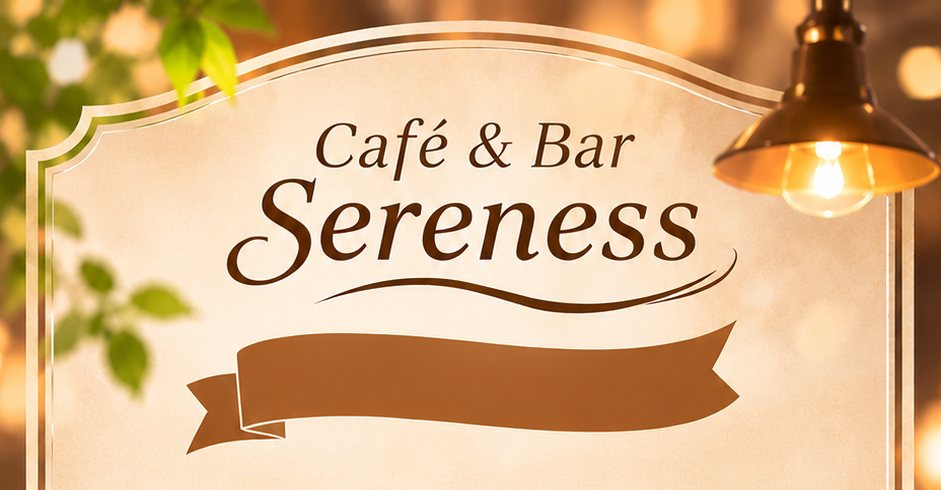
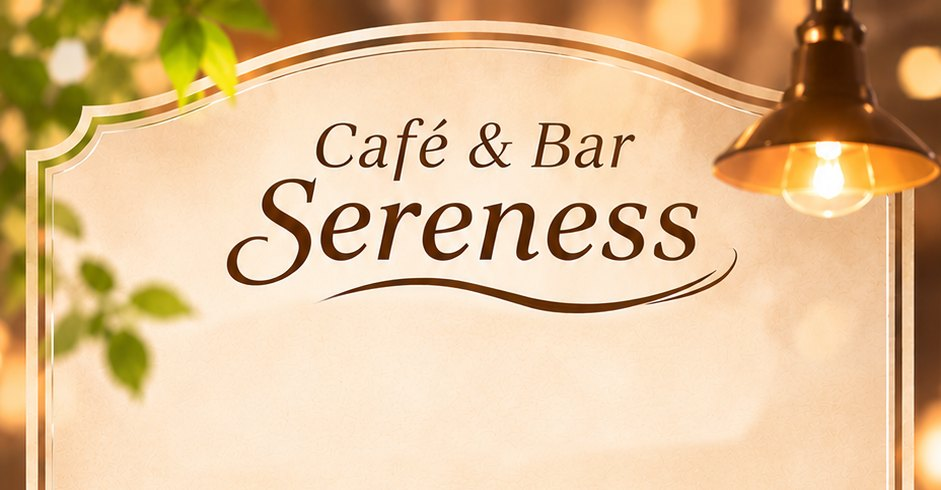
メニューのリボンを、両端が折り返した幅広の帯に変える
カード上部の元のリボンを紙の地で消し、内側にクリーム色の線がある濃い茶色の帯（img/ribbon.svg）に、
ページ名を大きめの欧文書体で載せた。

Claude-Session: https://claude.ai/code/session_016pjtUPDZjoXGVPoMVbckuW

Changed region(s): [[0.1849, 0.6429, 0.8013, 0.9184]]

diff --git a/menu-board.css b/menu-board.css
@@ -18,15 +18,18 @@ body { background: radial-gradient(circle at 50% 0%, #6b4a32 0%, #2e2119 60%, #1
 }
 .menu-inner-border { border: none; padding: 0; position: static; }
 
-/* ページ名はリボンの上に */
+/* ページ名はリボン（img/ribbon.svg：両端が折り返した幅広の帯）の上に */
 .header {
-    position: absolute; left: 22%; right: 22%; top: calc(var(--bw) * 0.392);
-    transform: translateY(-50%); border: none; margin: 0; padding: 0; text-align: center;
+    position: absolute; left: 3%; right: 3%; top: calc(var(--bw) * 0.315);
+    height: calc(var(--bw) * 0.2068); border: none; margin: 0; padding: 0; text-align: center;
+    background: url(img/ribbon.svg) center / 100% 100% no-repeat;
 }
 .logo-text { position: absolute; width: 1px; height: 1px; overflow: hidden; clip: rect(0 0 0 0); white-space: nowrap; }
 .mode-title {
-    margin: 0; color: #fff7ea; font-size: calc(var(--bw) * 0.033); letter-spacing: 0.06em;
-    font-weight: 600; text-shadow: 0 1px 2px rgba(60, 30, 10, 0.45); white-space: nowrap; overflow: hidden; text-overflow: ellipsis;
+    position: absolute; left: 13%; right: 13%; top: 43%; transform: translateY(-50%);
+    margin: 0; color: #fbefdc; font-family: 'Playfair Display', "Noto Serif JP", serif;
+    font-size: calc(var(--bw) * 0.05); font-weight: 500; letter-spacing: 0.05em; line-height: 1.2;
+    text-shadow: 0 1px 2px rgba(40, 18, 6, 0.55); white-space: nowrap; overflow: hidden; text-overflow: ellipsis;
 }
 
 /* 中身は1列（ドリンクのページの2列も1列にする） */
@@ -75,9 +78,9 @@ body { background: radial-gradient(circle at 50% 0%, #6b4a32 0%, #2e2119 60%, #1
     body { background: #fff; padding: 0; }
     .menu-paper { width: auto; padding: 0; background: none; box-shadow: none; border-radius: 0; }
     .menu-inner-border { border: 3px double #333; padding: 25px; }
-    .header { position: static; transform: none; border-bottom: 1px solid #333; padding-bottom: 10px; margin-bottom: 20px; }
+    .header { position: static; transform: none; height: auto; background: none; border-bottom: 1px solid #333; padding-bottom: 10px; margin-bottom: 20px; }
     .logo-text { position: static; width: auto; height: auto; clip: auto; }
-    .mode-title { color: #555; text-shadow: none; font-size: 14px; }
+    .mode-title { position: static; transform: none; color: #555; text-shadow: none; font-size: 14px; }
     .menu-grid { grid-template-columns: 1fr 1fr !important; gap: 30px !important; }
     .genre-title { background: #333; border-radius: 0; box-shadow: none; }
     .item-img { border-radius: 6px; border: none; box-shadow: none; }
